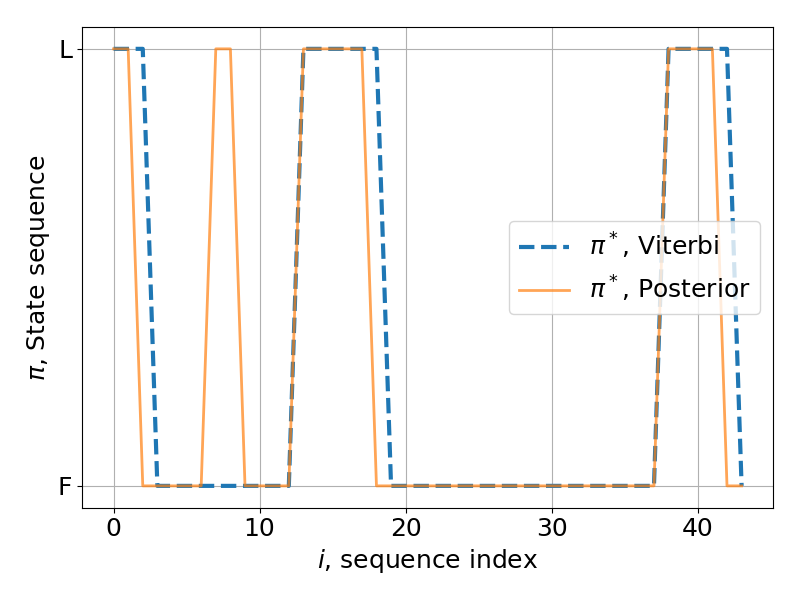
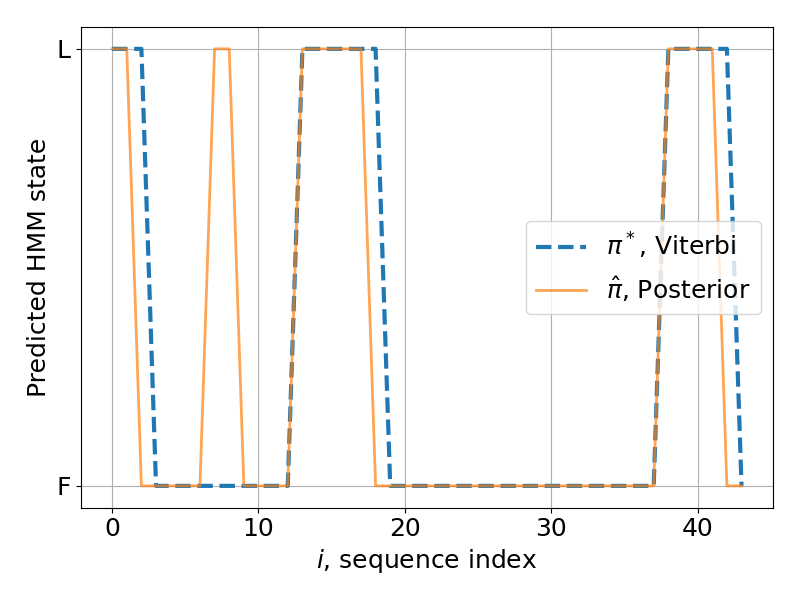
Finish report 2 in AtoSim

diff --git a/SNU/machine_learning_in_bioinformatics/homework1/homework1.py b/SNU/machine_learning_in_bioinformatics/homework1/homework1.py
@@ -171,10 +171,14 @@ pi_hat = np.argmax(p_post, axis=1)
 
 #**** Compare Viterbi and posterior ****
 pp = pprint.PrettyPrinter(indent=4)
+print('****** Observed sequence: x ******')
+print(f'x: {x_raw}')
 print('****** Viterbi: pi_m ******')
-pp.pprint(translate_to_state(pi_m))
+pi_m_str = ''.join(translate_to_state(pi_m))
+print(r'pi_m: ' + pi_m_str)
 print('****** Posterior: pi_hat ******')
-pp.pprint(translate_to_state(pi_hat))
+pi_hat_str = ''.join(translate_to_state(pi_hat))
+print(r'pi_hat: ' + pi_hat_str)
 print('****** Fractional overlap Viterbi/Posterior ******')
 print(f'Overlap: {(np.sum(pi_m==pi_hat)/len(pi_m)):.4f}')
 print('****** Sum of posterior probabilities Sum_k( p(xi=k|x) ) ******')
@@ -188,11 +192,11 @@ pp.pprint( p_post[:6, 2] )
 # Plot 
 fig, ax = plt.subplots(figsize=(8,6))
 ax.plot(pi_m, linewidth=3, linestyle='--', label=r'$\pi^*$, Viterbi')
-ax.plot(pi_hat, linewidth=2, linestyle='-', alpha=0.7, label=r'$\pi^*$, Posterior')
+ax.plot(pi_hat, linewidth=2, linestyle='-', alpha=0.7, label=r'$\hat{\pi}$, Posterior')
 ax.grid()
 ax.legend(loc='best')
 ax.set_xlabel(r'$i$, sequence index')
-ax.set_ylabel(r'$\pi$, State sequence')
+ax.set_ylabel(r'Predicted HMM state')
 plt.locator_params(axis='y', nbins=2)
 labels = [item.get_text() for item in ax.get_yticklabels()]
 labels[1] = 'F'

diff --git a/SNU/introduction_to_atomistic_simulations_of_nuclear_materials/report02_bulk_modulus_fe/calc_bulk_0K.py b/SNU/introduction_to_atomistic_simulations_of_nuclear_materials/report02_bulk_modulus_fe/calc_bulk_0K.py
@@ -7,7 +7,7 @@ import matplotlib.pyplot as plt
 plt.rc('font', size=18)          # controls default text sizes
 plt.rc('axes', titlesize=18)     # fontsize of the axes title
 plt.rc('axes', labelsize=18)     # fontsize of the x and y labels
-plt.rc('xtick', labelsize=18)    # fontsize of the tick labels
+plt.rc('xtick', labelsize=14)    # fontsize of the tick labels
 plt.rc('ytick', labelsize=18)    # fontsize of the tick labels
 plt.rc('legend', fontsize=18)    # legend fontsize
 
@@ -50,3 +50,17 @@ V0 = V[2]  # Å^3
 K = -V0 * dPdV
 print(f'Obtained bulk modulus at T={T} K: \t K = {K:.3f} GPa')
 
+
+# Plot stress-strain
+fig, ax = plt.subplots(figsize=(8,6))
+a = V**(1/3)
+a0 = a[2]
+e = (a-a0)/a0
+ax.plot( e, P*1e-4, label=r'$T=$'+f'{T:.2f} K' )
+ax.set_xlabel(r'Strain $e$')
+ax.set_ylabel(r'Stress $P$, (GPa)')
+ax.grid()
+ax.legend(loc='best')
+plt.tight_layout()
+plt.savefig('stress_strain_0K.png')
+plt.show()

diff --git a/SNU/introduction_to_atomistic_simulations_of_nuclear_materials/report02_bulk_modulus_fe/calc_bulk_high_temp.py b/SNU/introduction_to_atomistic_simulations_of_nuclear_materials/report02_bulk_modulus_fe/calc_bulk_high_temp.py
@@ -10,7 +10,7 @@ import matplotlib.pyplot as plt
 plt.rc('font', size=18)          # controls default text sizes
 plt.rc('axes', titlesize=18)     # fontsize of the axes title
 plt.rc('axes', labelsize=18)     # fontsize of the x and y labels
-plt.rc('xtick', labelsize=18)    # fontsize of the tick labels
+plt.rc('xtick', labelsize=14)    # fontsize of the tick labels
 plt.rc('ytick', labelsize=18)    # fontsize of the tick labels
 plt.rc('legend', fontsize=18)    # legend fontsize
 

diff --git a/SNU/introduction_to_atomistic_simulations_of_nuclear_materials/report02_bulk_modulus_fe/generate_fe.py b/SNU/introduction_to_atomistic_simulations_of_nuclear_materials/report02_bulk_modulus_fe/generate_fe.py
@@ -27,8 +27,8 @@ N = 2
 # Resources -------- Change here!
 mat = 'Fe'  # material
 st_txt = 'Fe.txt'  # txt structure file
-in_file = 'input.Fe-6x6x6-incT'
-s = 6  # Size of side of supercell
+in_file = 'input.Fe-0K'
+s = 1  # Size of side of supercell
 
 start_time = t.time()
 
